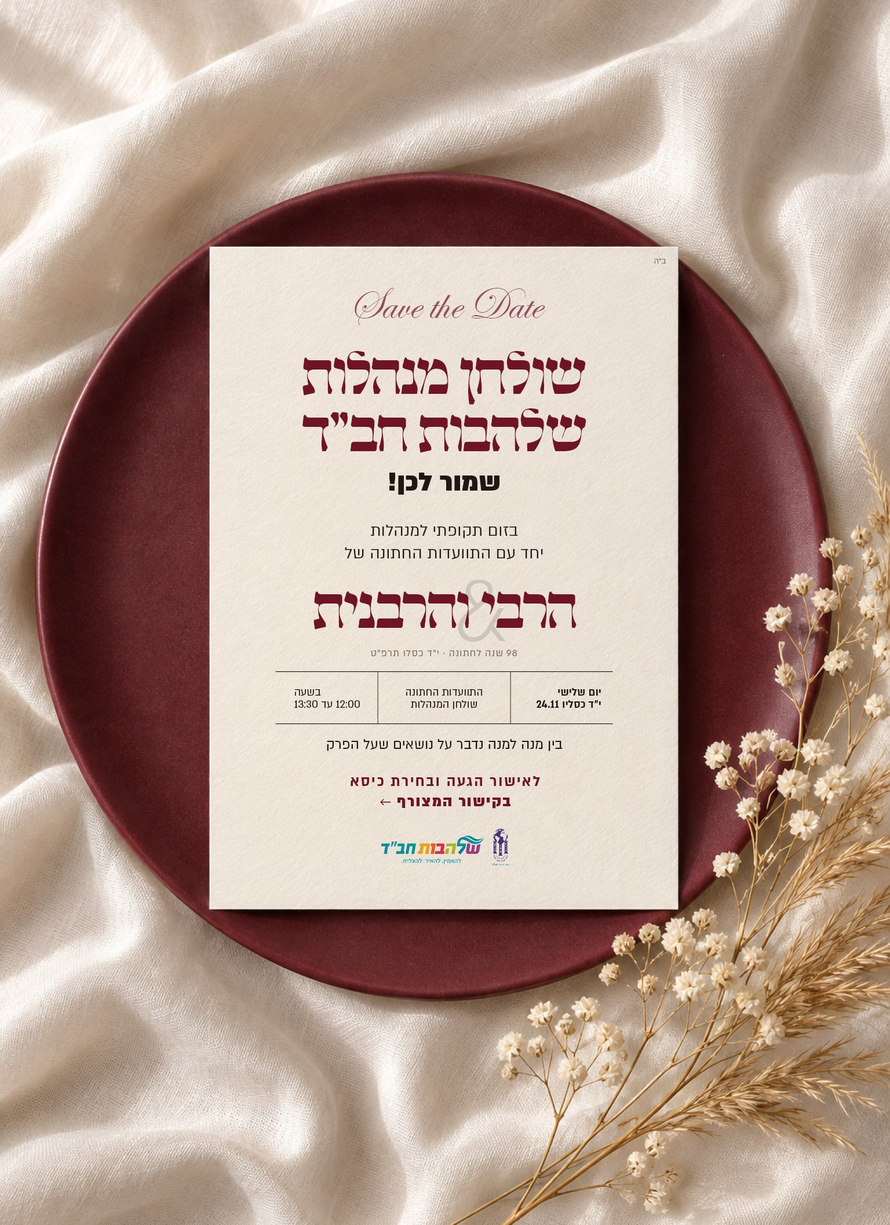
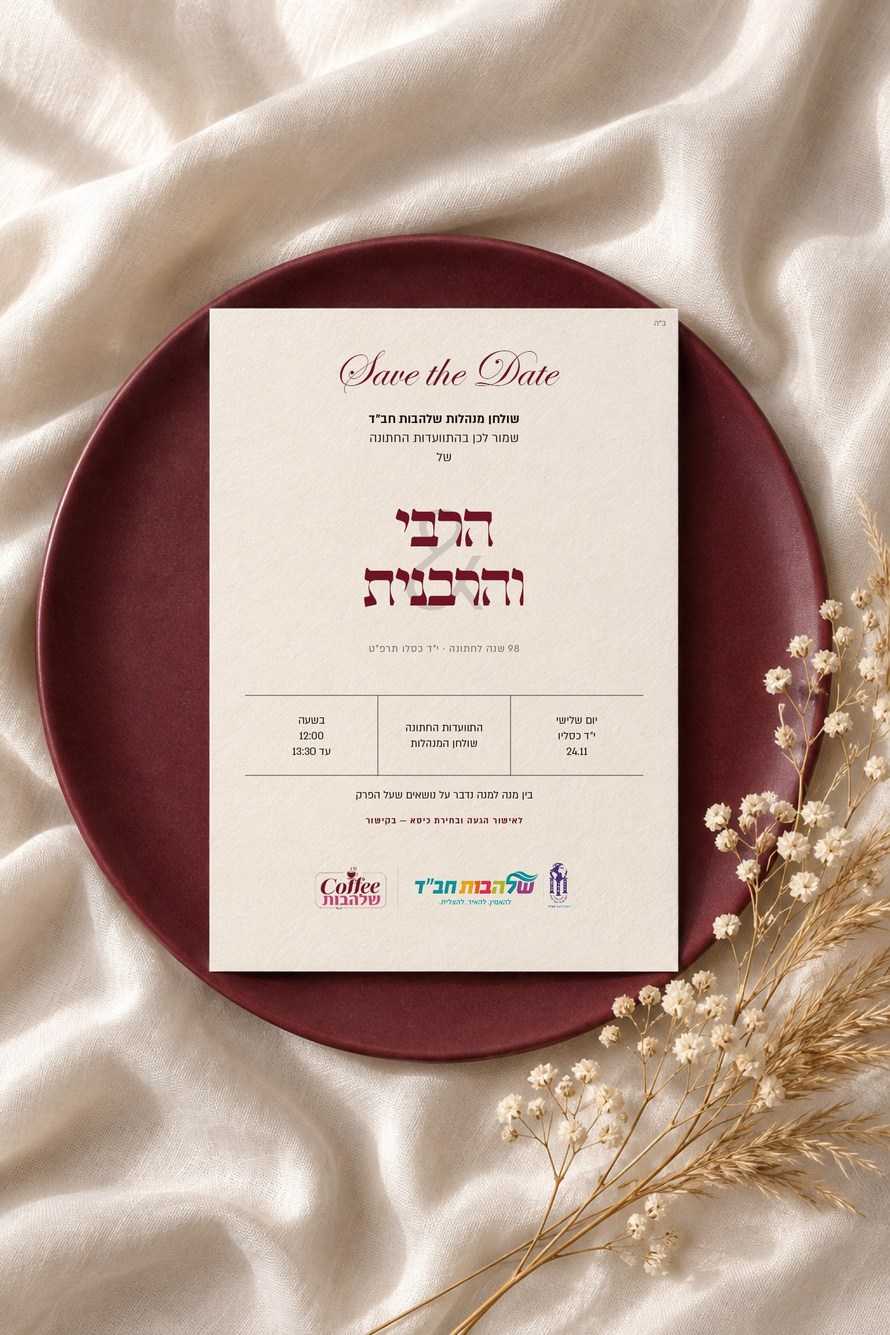
לוגו Coffee שלהבות ליד לוגו שלהבות בכל החומרים

diff --git a/gifts.html b/gifts.html
@@ -16,7 +16,9 @@
   .top { text-align: center; padding: 26px 16px 0; position: relative; }
   .top .bh { color: #cdb98f; top: 18px; right: 22px; }
   .logo-pill { display: inline-block; background: var(--paper); padding: 10px 22px; border-radius: 99px; box-shadow: 0 0 0 1px var(--gold), 0 10px 30px -10px rgba(0,0,0,.6); }
+  .logo-pill { display: inline-flex; align-items: center; gap: 14px; }
   .logo-pill img { height: 46px; display: block; }
+  .logo-pill .coffee { height: 34px; padding-inline-start: 14px; border-inline-start: 1px solid rgba(110,20,36,.25); }
   .top h1 { font-size: clamp(36px, 8vw, 64px); color: var(--gold-light); margin-top: 18px; text-shadow: 0 2px 20px rgba(226,199,136,.25); }
   .top .sub { color: #e6d6b8; font-size: clamp(16px, 3.6vw, 21px); margin: 6px auto 0; max-width: 620px; }
   .mini-portraits { display: flex; justify-content: center; gap: 14px; margin: 18px 0 0; }
@@ -64,7 +66,7 @@
 <body>
 <header class="top">
   <span class="bh">ב״ה</span>
-  <div class="logo-pill"><img src="images/logo-shalhevet.png" alt="שלהבות חב״ד"></div>
+  <div class="logo-pill"><img src="images/logo-shalhevet.png" alt="שלהבות חב״ד"><img class="coffee" src="images/logo-coffee-shalhevet.png" alt="Coffee שלהבות"></div>
   <div class="mini-portraits">
     <div class="arch"><img src="images/rebbe.jpg" alt="הרבי ביום החתונה"></div>
     <div class="arch"><img src="images/rebbetzin.jpg" alt="הרבנית ביום החתונה"></div>

diff --git a/style.css b/style.css
@@ -46,7 +46,9 @@ img { max-width: 100%; }
 .std .grid div + div { border-right: .3cqw solid var(--ink); }
 .std .topics { font-size: 4.3cqw; margin-top: 3.6cqw; line-height: 1.4; color: var(--ink); }
 .std .rsvp-line { margin-top: 2.4cqw; font-size: 2.9cqw; letter-spacing: .25em; color: var(--wine); font-weight: 700; }
-.std .logo { width: 40cqw; margin-top: 3cqw; mix-blend-mode: multiply; }
+.std .logos { display: flex; align-items: center; justify-content: center; gap: 3cqw; margin-top: 3cqw; }
+.std .logo { width: 40cqw; mix-blend-mode: multiply; }
+.std .coffee { width: 17cqw; padding-inline-start: 3cqw; border-inline-start: 1px solid rgba(110,20,36,.25); }
 
 /* ===== פתיחה ===== */
 .hero { position: relative; min-height: 100svh; display: grid; place-items: center; overflow: hidden; background: #eee6d8; }

diff --git a/save-the-date.html b/save-the-date.html
@@ -28,7 +28,7 @@
         <div><span dir="ltr">12:00–13:30</span></div>
       </div>
       <div class="topics">בין מנה למנה נדבר על נושאים שעל הפרק</div>
-      <img class="logo" src="images/logo-shalhevet.png" alt="שלהבות חב״ד">
+      <div class="logos"><img class="logo" src="images/logo-shalhevet.png" alt="שלהבות חב״ד"><img class="coffee" src="images/logo-coffee-shalhevet.png" alt="Coffee שלהבות"></div>
     </div>
   </div>
 </body>
